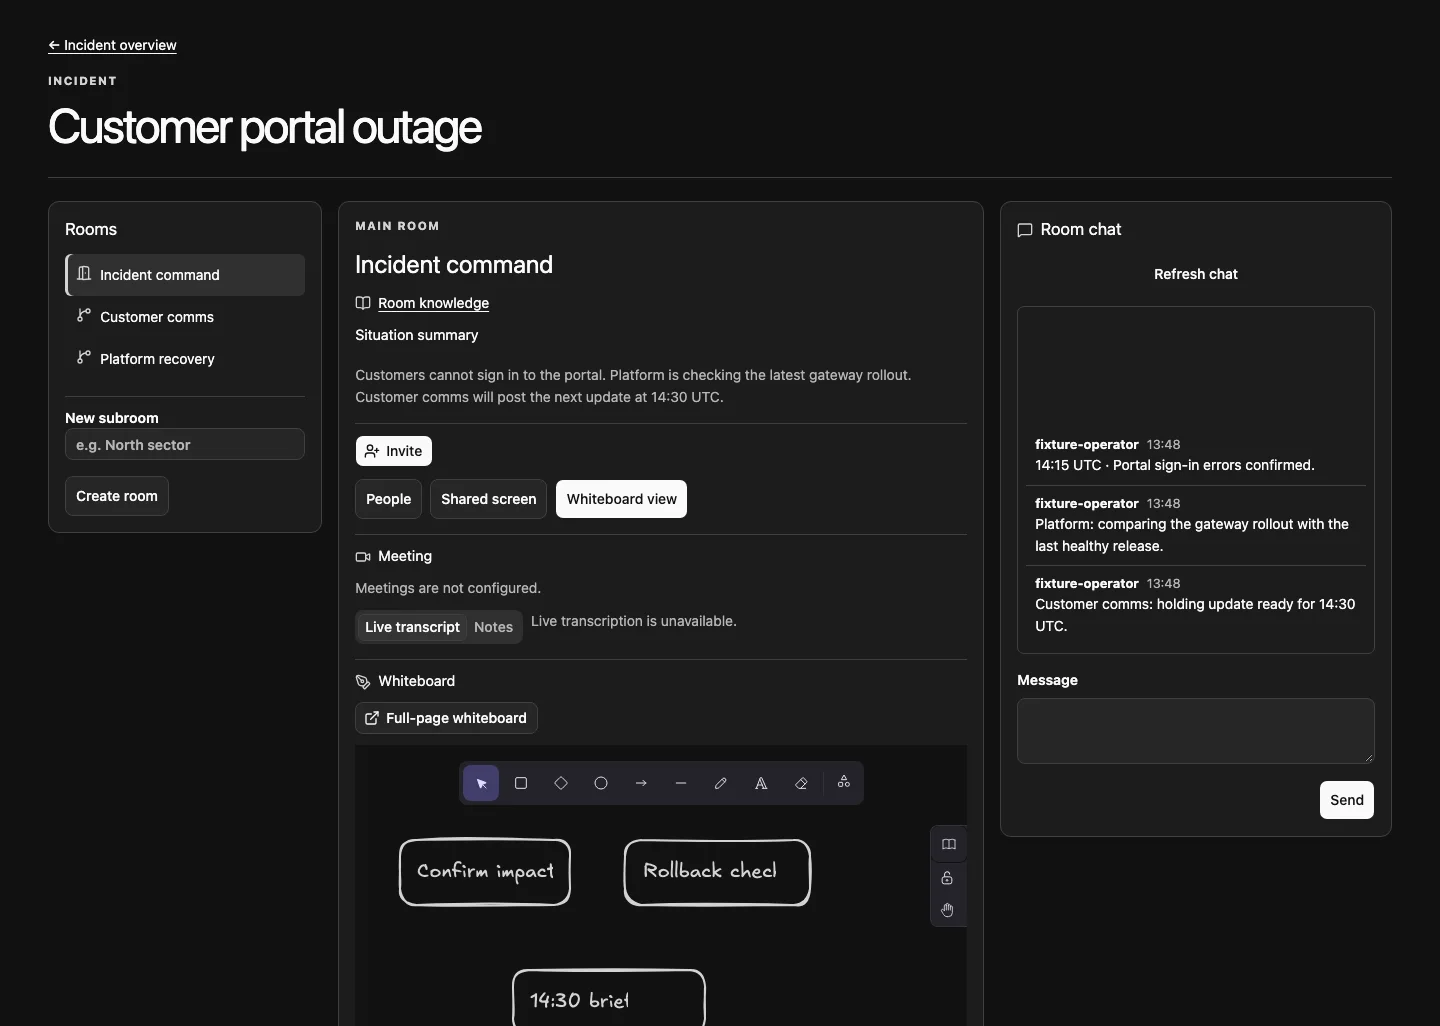
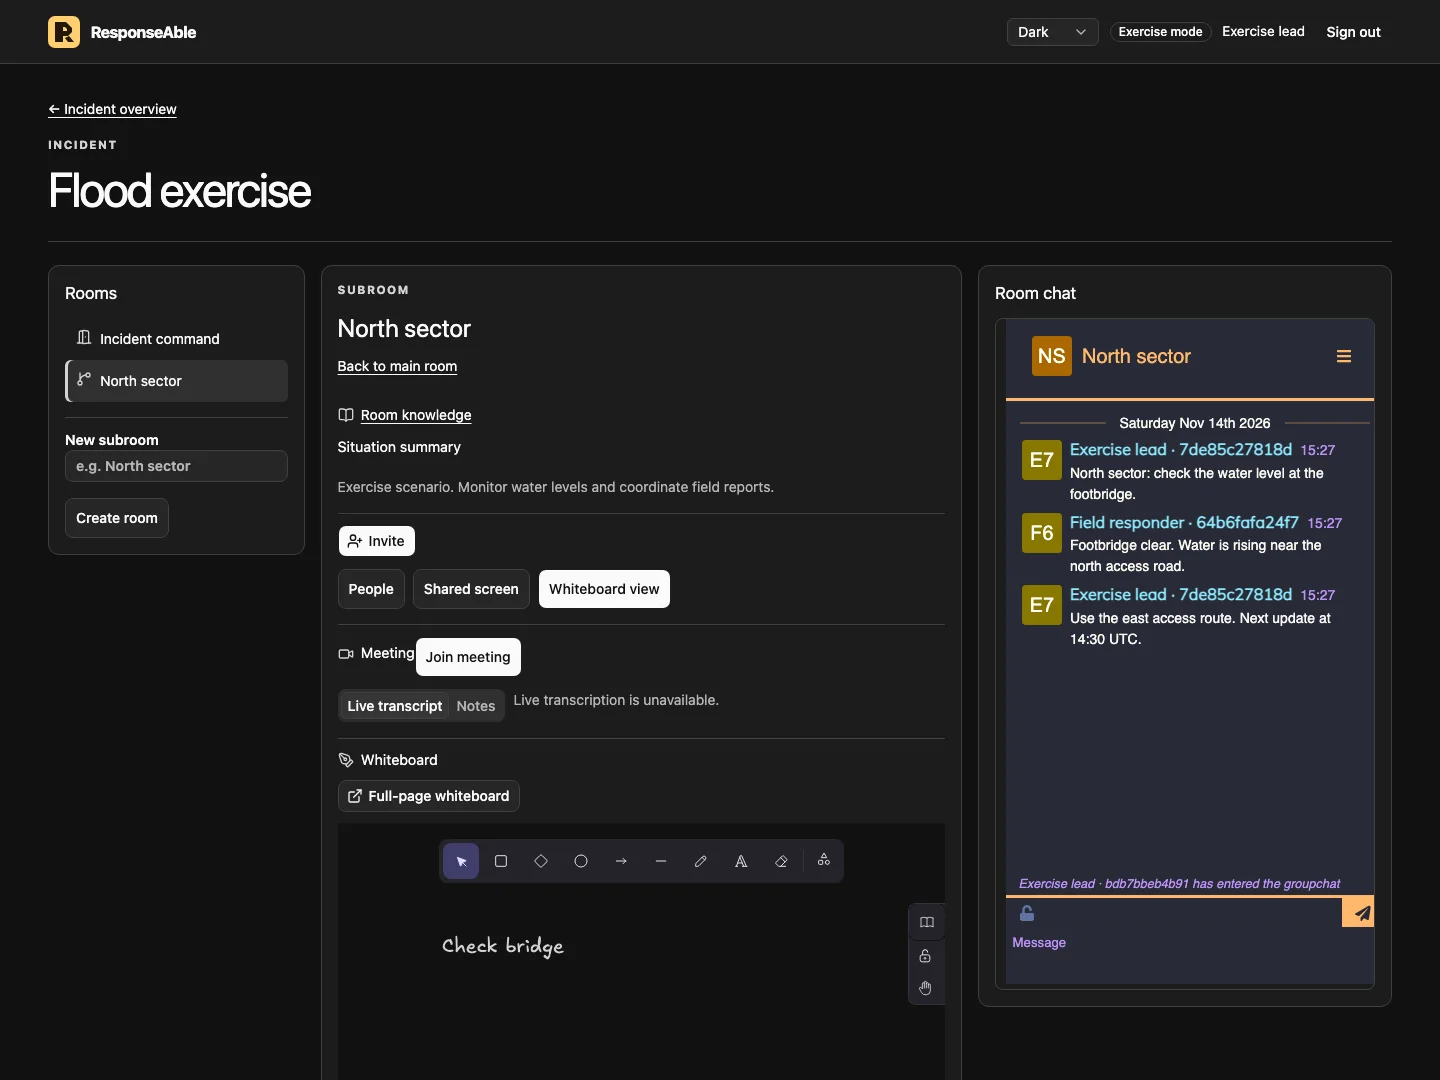
Show the current Converse workspace on desktop and mobile

diff --git a/README.md b/README.md
@@ -2,7 +2,7 @@
 
 ResponseAble is a self-hosted incident war room for coordinating responders across rooms, chat, whiteboards and meetings.
 
-![Desktop incident room with room navigation, a situation brief and chat](docs/incident-room-desktop.webp)
+![Desktop exercise workspace with room navigation, a shared whiteboard and Converse chat](docs/incident-room-desktop.webp)
 
 ## Try it on Kubernetes
 
@@ -30,7 +30,7 @@ The [GitHub mirror](https://github.com/Karlcom-de/responseable) can replace the 
 
 ![A runbook open in the desktop knowledge workspace](docs/runbook-desktop.webp)
 
-![Guest incident room and chat on a mobile display](docs/incident-room-mobile.webp)
+![Converse room chat in a mobile guest view](docs/incident-room-mobile.webp)
 
 ## Quick start
 
